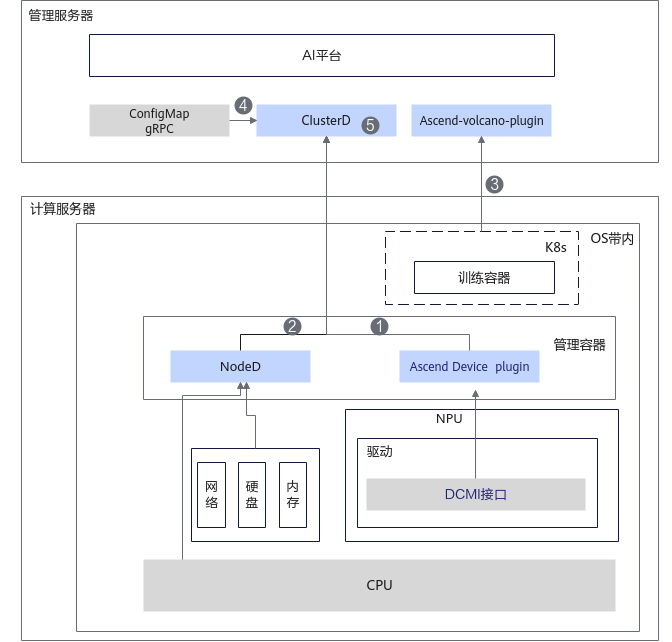
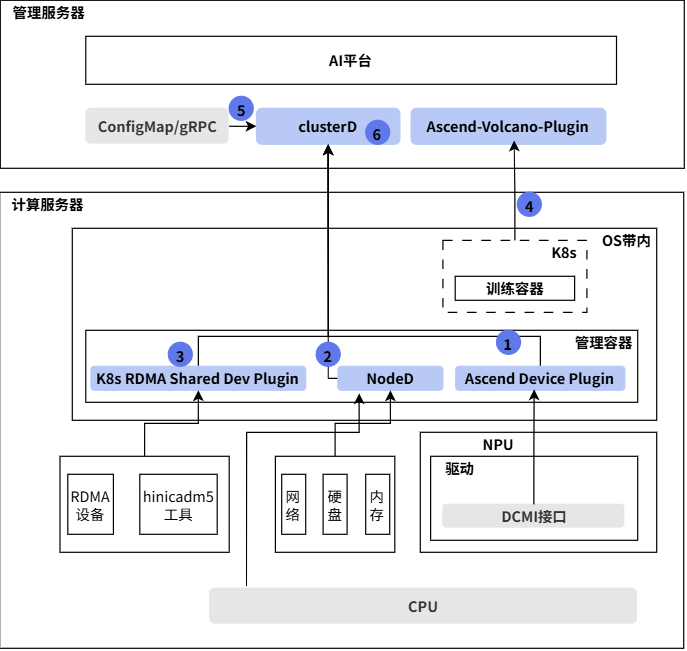
[Docs]k8s-rdma-shared-dev-plugin组件资料修改

Changed region(s): [[0.0, 0.0, 1.0, 1.0], [0.0, 0.0, 0.9062, 0.1246]]

diff --git a/docs/zh/scheduling/01_introduction/01_component_description.md b/docs/zh/scheduling/01_introduction/01_component_description.md
@@ -121,10 +121,11 @@
 
 1. 从各个计算节点的Ascend Device Plugin中获取芯片的信息。
 2. 从各个计算节点的NodeD中获取计算节点的CPU、内存、硬盘的健康状态，以及节点共享存储故障、灵衢慢网络故障信息。
-3. 从ConfigMap或gRPC获取公共故障信息。
-4. 汇总整个集群的资源信息，上报给Volcano。
-5. 将集群的任务状态、资源使用情况等信息上报给CCAE等运维系统。
-6. 与容器内的训练推理业务交互，协调高阶恢复过程。
+3. 从各个计算节点的K8s RDMA Shared Dev Plugin中获取RDMA设备的信息。
+4. 从ConfigMap或gRPC获取公共故障信息。
+5. 汇总整个集群的资源信息，上报给Volcano。
+6. 将集群的任务状态、资源使用情况等信息上报给CCAE等运维系统。
+7. 与容器内的训练推理业务交互，协调高阶恢复过程。
 
 ## Ascend Operator<a name="ZH-CN_TOPIC_0000002511426817"></a>
 

diff --git a/docs/zh/scheduling/06_api/14_hccl.json_file_description.md b/docs/zh/scheduling/06_api/14_hccl.json_file_description.md
@@ -106,7 +106,7 @@ hccl.json:
       "device_id": 0,  // 物理ID
       "level_list": [
         {
-          "net_layer": 0,   // 通信层级，0层描述框内通信，1层描述超节点内通信(非超节点场景没有此层，大网层级作为1层)，2层描述UBoE通信类型
+          "net_layer": 0,   // 通信层级，0层描述框内通信，1层描述超节点内通信(非超节点场景没有此层，大网层级作为1层)，2层描述UBoE通信类型，3层描述RoCE通信
           "net_instance_id": "xx",   // 组网ID，同一通信层级(net_layer)的唯一标识
           "net_type": "TOPO_FILE_DESC",     // 网络类型，值为TOPO_FILE_DESC和CLOS，TOPO_FILE_DESC代表从文件中查询网络类型，CLOS代表clos网络
           "net_attr": "",                   // 组网层级，留空
